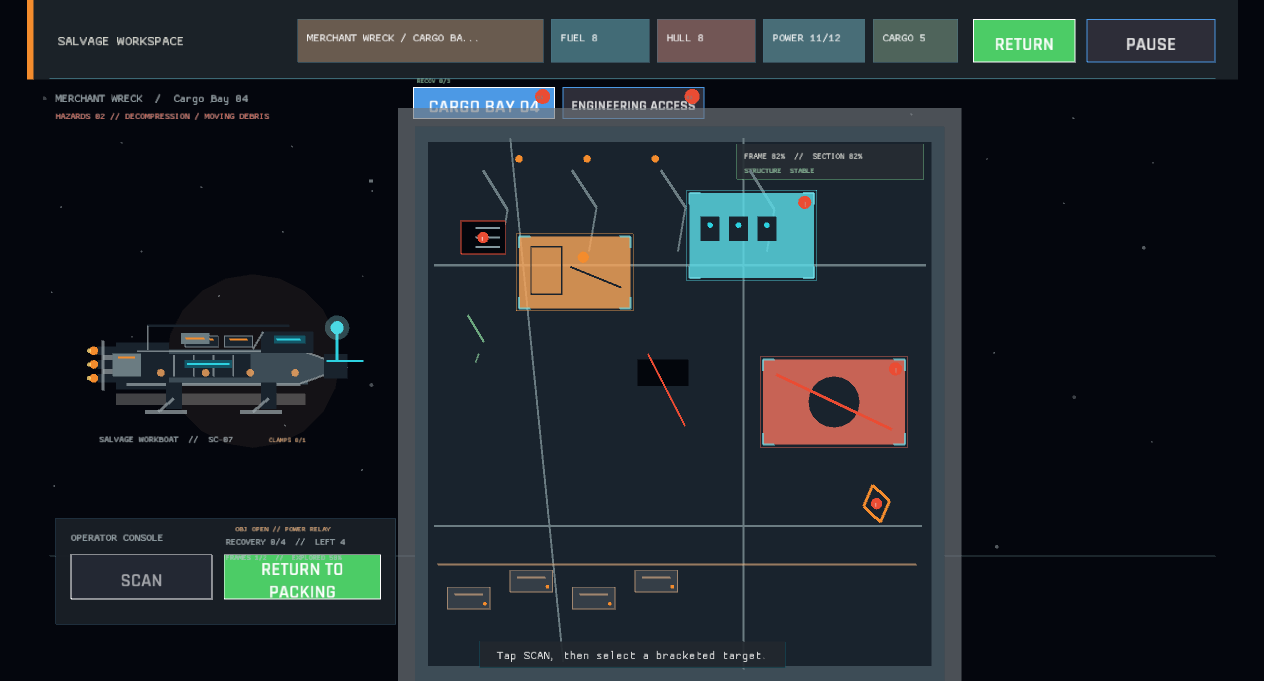
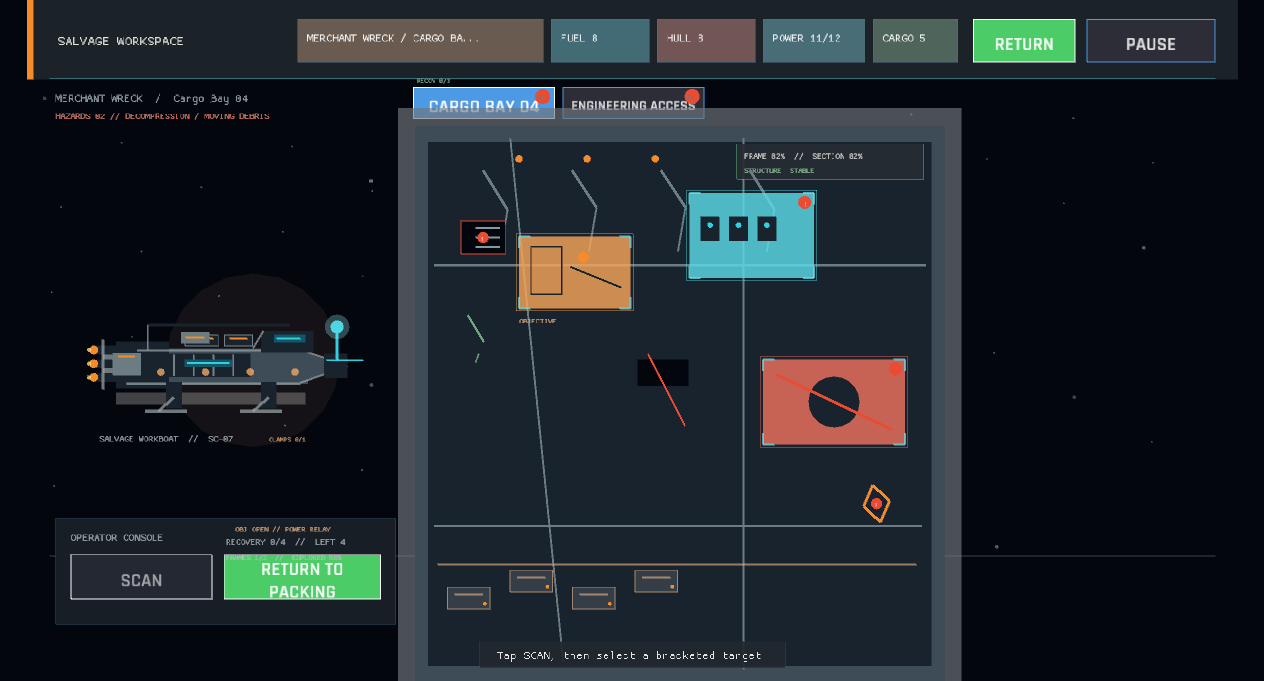
The contract mount carries its own objective marker (target objective affordance, GDD 6.4)
The contract target was named in the operator text, but a scanned hull offered no direct distinction between it and other brackets. The objective mount now carries an amber label beside its existing hazard and selection signals.

diff --git a/src/ui/wreck_visual.rs b/src/ui/wreck_visual.rs
@@ -667,6 +667,15 @@ fn draw_target_mount(
             visual_theme::with_alpha(base, 0.8),
         );
     }
+    if scanned && contract_target == Some(target_id) {
+        draw_text(
+            "OBJECTIVE",
+            draw_rect.x,
+            draw_rect.bottom() + 16.0,
+            10.0,
+            visual_theme::amber(),
+        );
+    }
     if let Some(target) = target {
         if scanned && target.hazard.is_some() {
             draw_circle(
